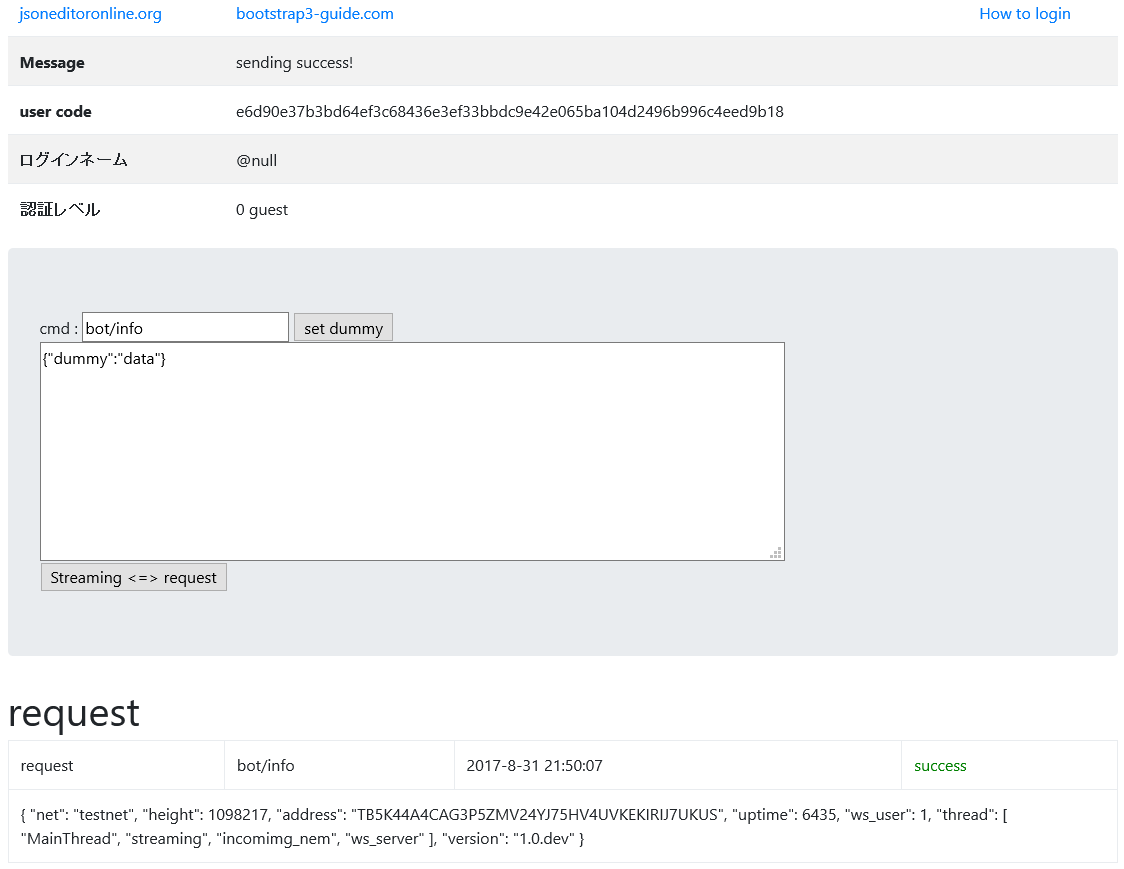
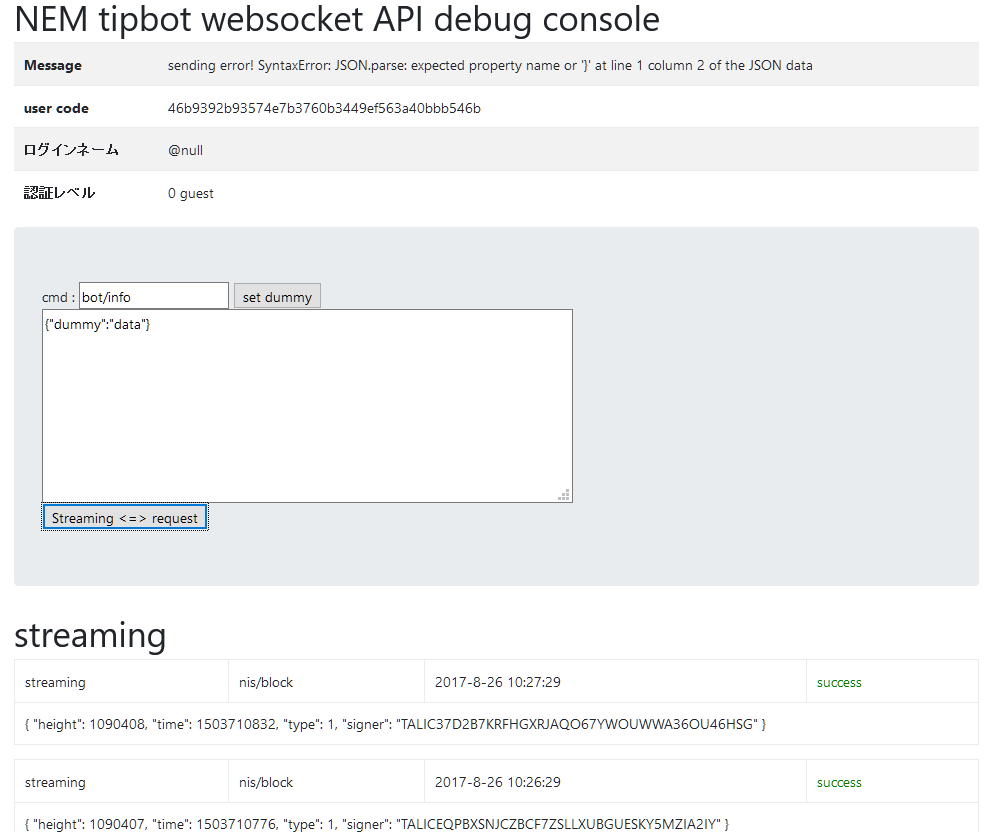
debugコンソール追加

diff --git a/index.html b/index.html
@@ -21,7 +21,7 @@
             <div style="margin: 20px;">
                 <button onclick="push_address(1);">Mainnet</button>　
                 <button onclick="push_address(0);">Testnet</button>　
-                <button onclick="push_address(3);">Localhot</button>
+                <button onclick="push_address(3);">Localhost</button>
             </div>
             <form name="connect_form_name" action="">
                 IP : <input name="ws_url" type="text" value="ws://127.0.0.1:8080">
@@ -54,7 +54,7 @@
                 <form name="data_form_name" id="data_form_id" action="">
                     <textarea name="cmd_data" cols=80 rows=8></textarea>
                 </form>
-                <button class="" onclick="chenge_req_stre();">Streaming <=> request</button>
+                <button class="" onclick="chenge_req_stre();">Streaming <=> request  <=> debug</button>
             </div>
 
             <!-- streaming data -->
@@ -76,6 +76,16 @@
                     <table class="table table-bordered">
                         <tr><th>type</th><th>command</th><th>time</th><th>result</th></tr>
                         <tr><td colspan="4">data</td></tr>
+                    </table>
+                </div>
+            </div>
+
+            <!-- debug data -->
+            <div id="debug_data" style="display: none;">
+                <h1>debug</h1>
+                <div>
+                    <table id="debug_table" class="table table-bordered">
+                        <tr><th>time</th><th>thread</th><th>data</th></tr>
                     </table>
                 </div>
             </div>
@@ -163,8 +173,19 @@
         if('user/check' == msg['command'] && msg['result'] == true){
             document.getElementById('screen').innerHTML = msg['data']['screen_name'];
             document.getElementById('level').innerHTML = msg['data']['level']+' '+level_name[msg['data']['level']];
+        }else if('debug/message' == msg['command']){
+            var t = document.getElementById("debug_table");
+            var row = t.insertRow(1);
+            var cell1 = row.insertCell(-1);
+            var cell2 = row.insertCell(-1);
+            var cell3 = row.insertCell(-1);
+            cell1.innerHTML = get_date(msg['time']);
+            cell2.innerHTML = msg['data']['thread'];
+            cell3.innerHTML = msg['data']['message'];
+            return
         }
         console.log(msg['data']);
+        console.log(msg['spent_msec']+" msec");
         var table_id = msg['type'] == 'request' ? '#request_table' : '#streaming_table';
         var result = msg['result'] == true ? "<span style='color:green;'>success</span>" : "<span style='color:red;'>failed</span>"
         var json_data = JSON.stringify(msg['data'],undefined,4);
@@ -177,16 +198,26 @@
         //console.log(JSON.stringify(msg['data'],undefined,4));
     }
 
-    // change streaming <=> request table
+    // change streaming <=> request table <=> debug table
     function chenge_req_stre() {
         var elem1 = document.getElementById("streaming_data");
         var elem2 = document.getElementById("request_data");
+        var elem3 = document.getElementById("debug_data");
         if(elem1.style.display == 'block'){
+            console.debug("ele1");
             elem1.style.display="none";
             elem2.style.display="block";
-        }else{
+            elem3.style.display="none";
+        }else if(elem2.style.display == 'block'){
+            console.debug("ele2");
+            elem1.style.display="none";
+            elem2.style.display="none";
+            elem3.style.display="block";
+        }else {
+            console.debug("ele3");
             elem1.style.display="block";
             elem2.style.display="none";
+            elem3.style.display="none";
         }
     }
 

diff --git a/how_to_login.md b/how_to_login.md
@@ -12,7 +12,7 @@ WebSocketをテストする為のツールが用意されています。[debug c
 * コンテンツクリエイター認証
 
 ## 接続確立
-1. ログイン　mainnet : `ws://153.122.86.46:8088` 、testnet :`ws://153.122.86.46:8080` 
+1. ログイン　mainnet : `ws://127.0.0.1:8359` 、testnet :`ws://127.0.0.1:8359` 
 ログインすると以下のような画面になります。
 
 <img src="img/debug_console1.png">
@@ -36,12 +36,12 @@ WebSocketをテストする為のツールが用意されています。[debug c
 
 <img src="img/debug_console2.png">
 
-* `user/offer` にてpincodeをDM経由で発行されます。
+* `user/login/offer` にてpincodeをDM経由で発行されます。
 * pincodeの有効期限は1時間で、認証に失敗すると再発行が必要になります。
 
 <img src="img/debug_console3.png">
 
-* `user/check` にてpincodeを入力しログインユーザーになる (level=1)
+* `user/login/check` にてpincodeを入力しログインユーザーになる (level=1)
 * streamingよりユーザー関連情報も流れてくるようになります。
 
 
